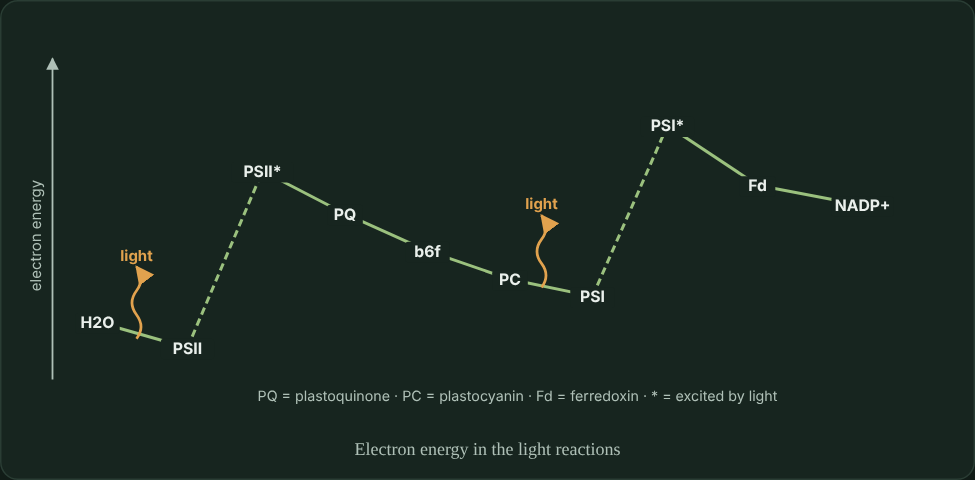
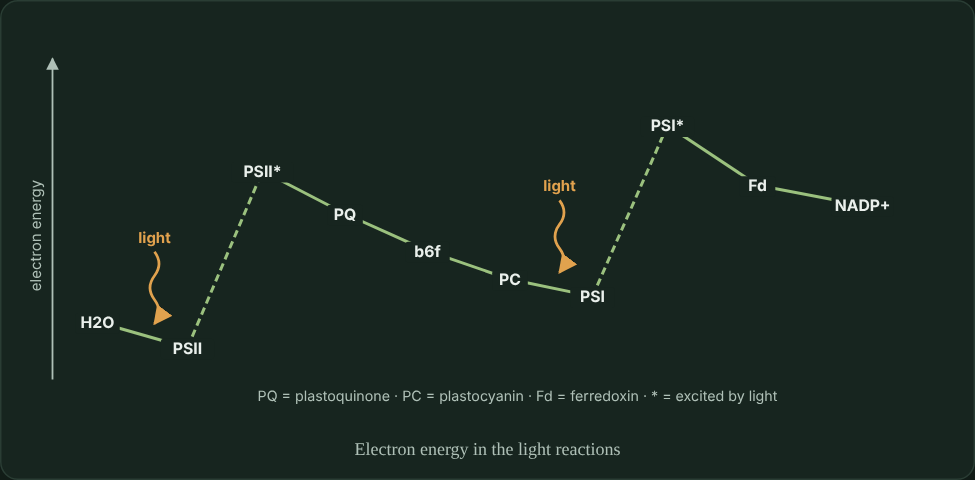
Modules 6-8: Module 8 review round 3 (0 MAJOR) minor fixes; Z-scheme light arrows point at the photosystems
Claude-Session: https://claude.ai/code/session_014xLH3wtAak4hTFyKB1tr6P

Changed region(s): [[0.1231, 0.4688, 0.1846, 0.6875], [0.5231, 0.375, 0.6154, 0.5938]]

diff --git a/biol130_modules6-8/work/cards_m8.py b/biol130_modules6-8/work/cards_m8.py
@@ -13,8 +13,8 @@ CARDS = with_mod(8, [
          "released by photosynthesis comes from." + STEM_TAIL,
          box("In each experiment, only one of the two raw materials, water or CO2, was enriched in 18O.",
              "Photosynthesis overall: 6 CO2 + 12 H2O → C6H12O6 + 6 O2 + 6 H2O."),
-         [S("In experiment 2, the CO2's extra 18O would reach the sugar only after the light was switched off, since sugar "
-            "is made in the light-independent reactions.", False,
+         [S("In experiment 2, the CO2's extra 18O would start reaching the sugar once the light was switched off, since "
+            "sugar is made in the light-independent reactions.", False,
             "The Calvin cycle runs in the light, using ATP and NADPH as the thylakoids make them; 'light-independent' means "
             "it doesn't use light directly."),
           S("The O2 released matches the label in the water because water is the electron donor that is oxidized in the light reactions.", True,
@@ -27,10 +27,8 @@ CARDS = with_mod(8, [
     combo(OV, "When the lights go out", READ,
           box("A spinach leaf in bright light is suddenly put in the dark.",
               "CO2 fixation goes on for a few seconds in the dark, then stops."),
-          [S("Fixation continues briefly in (나) because RuBP, and the ATP and NADPH made in the light, have not yet run out "
-             "in the stroma.", True,
-             "Rubisco keeps adding CO2 to the RuBP already present, and leftover ATP and NADPH remake a little more; once they "
-             "are used up, RuBP can't be regenerated and fixation stops."),
+          [S("A flash of light every few seconds would keep the leaf in (나) fixing some CO2.", True,
+             "Each flash runs the light reactions briefly, refilling ATP and NADPH so that RuBP can be regenerated."),
            S("Extra CO2 supplied when the light went off would keep fixation in (나) going much longer.", False,
              "Fixation stops because RuBP can't be regenerated once ATP and NADPH run out; extra CO2 doesn't replace them."),
            S("During the few seconds of fixation in (나), the thylakoids keep releasing O2 at the rate they did in the light.", False,
@@ -47,7 +45,8 @@ CARDS = with_mod(8, [
            S("Turning CO2 and water into carbohydrate and O2 has a positive ΔG, which is why light energy is needed, while "
              "(나) has a negative ΔG.", True,
              "Building high-energy carbohydrate from CO2 is endergonic; light supplies the energy that respiration later releases."),
-           S("The energy that (나) releases from glucose was originally captured from light by a process like (가).", True,
+           S("The energy that (나) releases from the glucose in a slice of bread was originally captured from light by a "
+             "process like (가).", True,
              "Photosynthesis stores light energy in carbohydrate; respiration later releases it, as ATP and heat, by "
              "running the reverse overall reaction through different pathways and enzymes."),
            ],
@@ -63,8 +62,8 @@ CARDS = with_mod(8, [
            S("The chemical energy that the phytoplankton in (나) store in sugar comes from the CO2 they take up from seawater.", False,
              "The energy comes from light; CO2 is a low-energy carbon source that gets reduced to carbohydrate."),
            ],
-          "Photosynthesis needs light · Energy entry point for food webs · CO2 is reduced",
-          ["m8_light_limits_habitat", "m8_photosynthesis_definition", "m8_photosynthesis_redox"], points=2),
+          "Photosynthesis needs light · Energy entry point for food webs",
+          ["m8_light_limits_habitat", "m8_photosynthesis_definition"], points=2),
     match(OV, "Parts of a chloroplast", "Match each part of the chloroplast to the fact that fits it best.", "Part", "Fact",
           [("Thylakoid membrane", "Where the herbicide diuron binds and blocks electron flow"),
            ("Thylakoid lumen", "Where H+ from split water builds up"),
@@ -111,18 +110,18 @@ CARDS = with_mod(8, [
        "Photosynthesis is a redox process · Water is the electron donor",
        ["m8_photosynthesis_redox", "m8_water_electron_donor"], points=1,
        box="In photosynthesis, CO2 is reduced to carbohydrate."),
-    tf(OV, "A blight that killed most of the grass would leave the wolves' food supply unchanged, since wolves eat deer "
-           "rather than grass.", False,
-       "The deer live on the grass, so the energy entering this food chain comes from the grass's photosynthesis; with "
-       "less grass there are fewer deer, and the wolves go short of food.",
+    tf(OV, "Shading the meadow so that the grass captured half as much light would, in time, leave less food for the wolves.", True,
+       "Energy enters this chain only when the grass captures light by photosynthesis; with less light captured there is "
+       "less grass for the deer, and so fewer deer for the wolves.",
        "Photosynthesis is the energy entry point", ["m8_photosynthesis_definition"], points=1,
        box="A wolf eats deer, and the deer eat grass."),
-    tf(OV, "The cave's food web depends on organic matter carried in from outside, such as bat droppings and washed-in leaves.", True,
-       "With no light, nothing in the cave photosynthesizes, so the energy its animals use must come in as food made by "
-       "photosynthesis outside.",
-       "Photosynthesis needs light · Energy entry point for food webs · Real-world: cave animals",
-       ["m8_light_limits_habitat", "m8_photosynthesis_definition"], points=1,
-       box="Many caves are home to insects, fish and salamanders but no plants, since no light reaches them."),
+    tf(OV, "As in most food webs, the energy these animals use was first captured from light.", False,
+       "No light reaches the cave; its bacteria are chemotrophs, so this food web runs on chemical energy, a rare "
+       "exception to photosynthesis as life's main energy entry point.",
+       "Photosynthesis is the main energy entry point · Phototrophs and chemotrophs (Module 6) · Real-world: Movile Cave",
+       ["m8_photosynthesis_definition", "m8_light_limits_habitat", "m6_phototroph_chemotroph"], points=2,
+       box="Movile Cave in Romania has been sealed off from the surface for millions of years, yet spiders, leeches and many "
+           "other invertebrates live there on mats of bacteria that fix CO2 using energy from oxidizing hydrogen sulfide."),
     mc(OV, "Using the diagram, where in the chloroplast are the enzymes that split water and release O2?",
        "Thylakoid membrane", ["Stroma", "Inner membrane, which holds the electron transport chain as in mitochondria",
                               "Outer membrane", "Space between the inner and outer membranes"],
@@ -204,8 +203,8 @@ CARDS = with_mod(8, [
              "Red light is absorbed by the water near the surface (가), so very little reaches deep algae; they rely on green "
              "and blue-green light."),
            ],
-          "Accessory pigments · Antenna energy transfer · Light limits where photosynthesis can occur · Real-world: deep red algae",
-          ["m8_accessory_pigments", "m8_antenna_transfer", "m8_light_limits_habitat"], points=3),
+          "Accessory pigments · Antenna energy transfer · Real-world: deep red algae",
+          ["m8_accessory_pigments", "m8_antenna_transfer"], points=3),
     match(PG, "Across the spectrum", "Match each kind of light to the description that fits it.", "Light", "Description",
           [("Ultraviolet (below 400 nm)", "More energy per photon than any visible light"),
            ("Blue (about 440 nm)", "Absorbed strongly by both chlorophylls and carotenoids"),
@@ -239,7 +238,8 @@ CARDS = with_mod(8, [
     tf(PG, "Because the difference lies in the ring rather than the tail, the two absorb different wavelengths but anchor "
            "in the membrane the same way.", True,
        "The porphyrin ring is the light-absorbing part, so changing one of its side groups shifts the absorption peaks "
-       "(chlorophyll a near 430 and 662 nm, chlorophyll b near 455 and 642 nm).",
+       "(chlorophyll a near 430 and 662 nm, chlorophyll b near 455 and 642 nm); both keep the same hydrophobic phytol tail, "
+       "so both anchor in the thylakoid membrane the same way.",
        "Chlorophyll structure", ["m8_chlorophyll_structure"], points=2,
        box="Chlorophylls a and b have the same tail and differ only in one side group on the porphyrin ring shown in the diagram.",
        diagram="m8_chlorophyll"),
@@ -394,7 +394,7 @@ CARDS = with_mod(8, [
           [("Light", "Neither photosystem's reaction center is excited"),
            ("NADP+", "Electrons leaving PSI have no final acceptor"),
            ("CO2", "Carboxylation stops, so ATP and NADPH stop being used"),
-           ("O2", "Photosynthesis carries on, since O2 is a product, not an input")],
+           ("O2", "Photosynthesis carries on: the chloroplasts make this rather than use it")],
           "Light drives both photosystems; NADP+ is the final acceptor of linear electron flow; CO2 is the Calvin cycle's "
           "substrate, and the cycle is what spends ATP and NADPH; O2 is released from water, not used.",
           "Light excites the photosystems · NADP+ the final acceptor · Two linked stages · Water is the electron donor",
@@ -406,16 +406,16 @@ CARDS = with_mod(8, [
        "Plastoquinone and plastocyanin · Photosystems in series", ["m8_carriers_pq_pc", "m8_two_photosystems_series"], points=2,
        box="In the chain shown in the diagram, a mutant plant's plastocyanin (PC) cannot pass electrons to PSI.",
        diagram="m8_thylakoid_membrane"),
-    tf(PS, "A chemical that lets H+ leak freely across the thylakoid membrane would stop ATP synthesis, but electron flow "
-           "from water to NADP+ would continue.", True,
-       "ATP synthase runs on the H+ gradient, which the leak collapses; electron flow doesn't depend on making ATP, so "
-       "with NADP+ supplied it continues (as with DNP in mitochondria). In a leaf it would soon stop, because without ATP "
-       "the Calvin cycle can't turn NADPH back into NADP+.",
-       "Photophosphorylation · Thylakoid H+ gradient", ["m8_photophosphorylation", "m8_thylakoid_proton_gradient"], points=2,
-       box="Isolated thylakoids like the membrane in the diagram are lit brightly and given ADP, Pi, ferredoxin and plenty "
-           "of NADP+. Electron flow keeps their lumens far more acidic than the surrounding buffer.",
-       diagram="m8_thylakoid_membrane"),
-    tf(PS, "The ATP made here has to cross the thylakoid membrane before the Calvin cycle can use it.", False,
+    tf(PS, "Besides stopping ATP synthesis, the chemical would soon slow O2 release, even though electron flow itself "
+           "doesn't need ATP.", True,
+       "Without ATP the Calvin cycle can't phosphorylate 3-phosphoglycerate, so NADPH isn't turned back into NADP+; with "
+       "no acceptor left, electrons back up and PSII stops splitting water.",
+       "Photophosphorylation · Thylakoid H+ gradient · The two stages are linked",
+       ["m8_photophosphorylation", "m8_thylakoid_proton_gradient", "m8_two_stages_linked"], points=2,
+       box="A leaf in bright light is treated with a chemical that lets H+ leak freely across the thylakoid membranes shown "
+           "in the diagram.", diagram="m8_thylakoid_membrane"),
+    tf(PS, "The ATP made here is released into the thylakoid lumen, so it crosses the thylakoid membrane before the Calvin "
+           "cycle uses it.", False,
        "CF1, the part that makes ATP, faces the stroma, so the ATP is released right where the Calvin cycle runs.",
        "Photophosphorylation · Stage locations", ["m8_photophosphorylation", "m8_stage_locations"], points=1,
        box="Chloroplast ATP synthase sits in the thylakoid membrane."),
@@ -424,10 +424,12 @@ CARDS = with_mod(8, [
        "for much of its ATP, and the mitochondria still work, so it is carbon fixation that stops.",
        "Chloroplast ATP stays in the chloroplast", ["m8_chloroplast_atp_stays"], points=2,
        box="In bright light, a drug blocks only the chloroplasts' ATP synthase in a leaf."),
-    tf(PS, "These cells get most of their ATP from respiration in their mitochondria, by oxidizing sugar made in the leaves.", True,
-       "Roots don't photosynthesize; like all plant cells they respire, using sugar carried down from the leaves.",
-       "Non-green cells respire sugar from the leaves · Real-world: carrot roots",
-       ["m8_photosynthesis_definition"],
+    tf(PS, "Because no light reaches them in the soil, these cells make most of their ATP by fermentation rather than "
+           "aerobic respiration.", False,
+       "Light is needed for photosynthesis, not for respiration: root cells respire aerobically, using O2 from air spaces "
+       "in the soil and sugar sent down from the leaves, and ferment only when waterlogged soil cuts off O2.",
+       "Non-green cells respire sugar from the leaves · O2 is the final acceptor (Module 7) · Real-world: carrot roots",
+       ["m8_photosynthesis_definition", "m7_o2_final_acceptor"],
        points=1, box="The cells of a carrot root are not green and carry out no photosynthesis."),
     tf(PS, "If PSII could not take electrons from water, it would soon stop passing electrons on, even in bright light.", True,
        "An oxidized reaction center must get an electron back from a donor before it can work again, and water is PSII's donor.",
@@ -563,12 +565,12 @@ CARDS = with_mod(8, [
              "the plants starve. In continuous light the Calvin cycle never stops, so no store is needed."),
            S("At night, the Calvin cycle keeps running on stored starch, which supplies the ATP and NADPH it needs.", False,
              "The Calvin cycle's ATP and NADPH come from the light reactions; starch is broken down for respiration, not to run the cycle."),
-           S("Starch stored by day is broken down into sugars at night, which leaf cells respire to make ATP.", True,
-             "Starch is a glucose polymer; the sugars released feed glycolysis and respiration for the night-time ATP supply."),
+           S("If the mutants in (나) were given sugar through their roots during the long nights, they would grow better.", True,
+             "Their problem is a night-time sugar shortage, so sugar supplied at night stands in for the missing starch store."),
            ],
-          "Starch stores carbohydrate for the night · Calvin cycle needs light-made ATP and NADPH · Glucose stores · "
+          "Starch stores carbohydrate for the night · Calvin cycle needs light-made ATP and NADPH · "
           "Real-world: starchless Arabidopsis mutants",
-          ["m8_starch_for_night", "m8_calvin_overview", "m7_glycogen_starch_storage"], points=2),
+          ["m8_starch_for_night", "m8_calvin_overview"], points=2),
     match(CC, "Steps of the Calvin cycle", "Match each step to what happens in it.", "Step", "What happens",
           [("Carboxylation", "A five-carbon sugar gains a carbon from the air"),
            ("Reduction, first part", "3-phosphoglycerate gains a phosphate from ATP"),
@@ -602,8 +604,8 @@ CARDS = with_mod(8, [
        "Calvin cycle stoichiometry", ["m8_calvin_stoichiometry"], points=2,
        box="A chloroplast in steady light exports one triose phosphate."),
     tf(CC, "Both the reduction step and the regeneration of RuBP would slow down.", True,
-       "Both steps use ATP: 6 ATP to phosphorylate 3-phosphoglycerate and 3 more to regenerate 3 RuBP. NADPH is spent "
-       "only in reduction, so plenty of it can't make up for the missing ATP.",
+       "Both steps use ATP: per 3 CO2 fixed, 6 ATP phosphorylate the six 3-phosphoglycerate molecules and 3 more "
+       "regenerate the 3 RuBP. NADPH is spent only in reduction, so plenty of it can't make up for the missing ATP.",
        "Regeneration of RuBP · Reduction step", ["m8_regeneration_rubp", "m8_reduction_step"], points=2,
        box="A chloroplast in bright light runs short of ATP, while its NADPH stays plentiful."),
     tf(CC, "RuBP builds up and 3-phosphoglycerate falls, because carboxylation stops while regeneration continues.", True,
@@ -619,7 +621,7 @@ CARDS = with_mod(8, [
     mc(CC, "Using the diagram, how many triose phosphates must the Calvin cycle make in all, recycled and exported, to "
            "export the carbon for one glucose?",
        "12", ["2", "6", "10", "12", "18"],
-       "6 CO2 give 12 3-phosphoglycerate and so 12 triose phosphates; 10 rebuild the 6 RuBP and 2 leave (6 C), enough "
+       "6 CO2 give 12 molecules of 3-phosphoglycerate and so 12 triose phosphates; 10 rebuild the 6 RuBP and 2 leave (6 C), enough "
        "for one glucose.",
        "Calvin cycle stoichiometry · Regeneration of RuBP", ["m8_calvin_stoichiometry", "m8_regeneration_rubp"], points=2,
        ordered=True, key_index=3, diagram="m8_calvin_cycle"),
@@ -640,13 +642,13 @@ CARDS = with_mod(8, [
        "Starch stores carbohydrate for the night · Storage polysaccharides (Module 2)",
        ["m8_starch_for_night", "m2_polysaccharides_storage"], points=2),
     mc(CC, "Photosynthesis reduces CO2 to carbohydrate. At which point in the Calvin cycle does the carbon actually gain electrons?",
-       "When NADPH reduces 1,3-bisphosphoglycerate",
+       "When 1,3-bisphosphoglycerate becomes triose phosphate",
        ["When rubisco joins CO2 to RuBP",
         "When ATP adds a phosphate to 3-phosphoglycerate",
         "When triose phosphates are rearranged into RuBP",
         "When triose phosphate leaves the cycle"],
-       "Joining CO2 to RuBP fixes carbon but doesn't reduce it, and ATP only adds a phosphate; the electrons come from "
-       "NADPH in the second part of the reduction step.",
+       "Joining CO2 to RuBP fixes carbon but adds no electrons from outside, and ATP only adds a phosphate; the electrons "
+       "come from NADPH when 1,3-bisphosphoglycerate is reduced to triose phosphate.",
        "Reduction step · Photosynthesis is a redox process", ["m8_reduction_step", "m8_photosynthesis_redox"], points=2),
     mc(CC, "A potato tuber grows underground and fills with starch. Which sequence traces one of its carbon atoms from the "
            "air into that starch?",

diff --git a/biol130_modules6-8/work/diagrams_m8.py b/biol130_modules6-8/work/diagrams_m8.py
@@ -212,8 +212,8 @@ def m8_z_scheme():
     for lab, x, e in pts:
         p.append(label_box(x, y_of(e) + 4, lab, size=10.5, weight="700", pad=6))
     for x, e0 in ((110, 0.08), (380, 0.26)):
-        p.append(path(f"M{x-34},{y_of(e0)-6} q6,-8 0,-16 q-6,-8 0,-16 q6,-8 0,-16", stroke=ACCENT, width=1.8, end=f"{K}_b"))
-        p.append(text(x - 34, y_of(e0) - 58, "light", size=10, fill=ACCENT, weight="700"))
+        p.append(path(f"M{x-22},{n(y_of(e0)-64)} q6,8 0,16 q-6,8 0,16 q6,8 0,16", stroke=ACCENT, width=1.8, end=f"{K}_b"))
+        p.append(text(x - 22, y_of(e0) - 70, "light", size=10, fill=ACCENT, weight="700"))
     p.append(text(330, 250, "PQ = plastoquinone · PC = plastocyanin · Fd = ferredoxin · * = excited by light", size=9.5, fill=SOFT))
     return ("Electron energy in the light reactions", svg(620, 260,
             "Energy diagram of the light reactions, shaped like a Z. Electrons from water drop slightly to photosystem II, "
